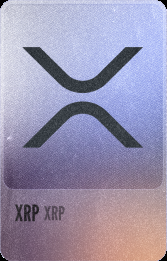
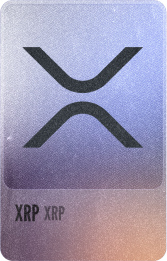
move jwt to coockie and remove black background

Changed region(s): [[0.9281, 0.0, 1.0, 1.0], [0.0, 0.9502, 0.0599, 1.0], [0.0, 0.0, 0.0599, 0.0307]]

diff --git a/api/routes/auth.py b/api/routes/auth.py
@@ -1,5 +1,4 @@
-from fastapi import APIRouter, HTTPException, Header, Depends
-from fastapi.security import HTTPBearer, HTTPAuthorizationCredentials
+from fastapi import APIRouter, HTTPException, Header, Depends, Response, Cookie
 from pydantic import BaseModel, validator
 from typing import Optional
 import logging
@@ -10,11 +9,11 @@ from services.web3_auth_service import web3_auth_service
 from services.user_card_grant_service import user_card_grant_service
 from services.user_pack_grant_service import user_pack_grant_service
 
+from config import Config
+
 logger = logging.getLogger(__name__)
 
 router = APIRouter(prefix="/auth")
-
-security = HTTPBearer()
 
 
 class NonceRequest(BaseModel):
@@ -62,32 +61,61 @@ class VerifyRequest(BaseModel):
 
 
 class AuthResponse(BaseModel):
-    access_token: str
     token_type: str = "bearer"
-    expires_in: int = 604800  # 7 дней
+    expires_in: int = 604800  # 7 дней в секундах
     user: dict
-    cards_granted: Optional[int] = None  # Количество выданных карточек
-    packs_granted: Optional[int] = None  # Количество выданных паков
+    cards_granted: Optional[int] = None
+    packs_granted: Optional[int] = None
+    
+    class Config:
+        json_schema_extra = {
+            "example": {
+                "token_type": "bearer",
+                "expires_in": 604800,
+                "user": {
+                    "id": 1,
+                    "wallet_address": "0x1234...",
+                    "nickname": "Player123",
+                    "referral_route": "Player1230001",
+                    "avatar_url": "https://...",
+                    "created_at": "2026-01-22T10:00:00"
+                },
+                "packs_granted": 3
+            }
+        }
 
+
+from fastapi import Cookie, HTTPException
+from typing import Optional
 
 def verify_jwt_dependency(
-    credentials: HTTPAuthorizationCredentials = Depends(security)
+    access_token: Optional[str] = Cookie(None)  # ← ЧИТАЕМ ИЗ COOKIE
 ):
-    """Verify JWT token from Authorization header"""
+    """Verify JWT token from HTTP-only cookie"""
+    if not access_token:
+        raise HTTPException(
+            status_code=401, 
+            detail="Not authenticated",
+            headers={"WWW-Authenticate": "Bearer"}
+        )
+    
     try:
-        token = credentials.credentials  # Получаем токен из Bearer
-        
-        payload = web3_auth_service.verify_jwt_token(token)
+        payload = web3_auth_service.verify_jwt_token(access_token)
         if not payload:
-            raise HTTPException(status_code=401, detail="Invalid or expired token")
-        
+            raise HTTPException(
+                status_code=401, 
+                detail="Invalid or expired token"
+            )
         return payload
         
     except HTTPException:
         raise
     except Exception as e:
         logger.error(f"Authentication failed: {e}")
-        raise HTTPException(status_code=401, detail="Authentication failed")
+        raise HTTPException(
+            status_code=401, 
+            detail="Authentication failed"
+        )
 
 
 @router.post("/nonce")
@@ -110,68 +138,67 @@ async def get_nonce(request: NonceRequest):
 @router.post("/verify", response_model=AuthResponse)
 async def verify_signature(
     request: VerifyRequest,
+    response: Response,  # ← ДОБАВИЛИ
     db: AsyncSession = Depends(get_async_db)
 ):
     """
     Verify wallet signature and authenticate user
-    Validates the signed message and returns JWT access token.
+    Validates the signed message and sets HTTP-only authentication cookie.
     """
     try:
         is_valid = await web3_auth_service.verify_signature(
             request.wallet_address, 
             request.signature
         )
-        
         if not is_valid:
             raise HTTPException(status_code=401, detail="Invalid signature")
-
+        
         # Проверяем, существует ли уже пользователь
         existing_user = await web3_auth_service.get_user_by_wallet(
             request.wallet_address, 
             db
         )
         is_new_user = existing_user is None
-
+        
         user = await web3_auth_service.create_or_get_user(
             wallet_address=request.wallet_address,
             nickname=request.nickname,
             avatar_url=request.avatar_url,
             db=db
         )
-
+        
         cards_granted_count = 0
         packs_granted_count = 0
-
-        # Выдаем паки новым пользователям (карты временно отключены)
+        
+        # Выдаем паки новым пользователям
         if is_new_user:
-            # 🚫 DISABLED: Не выдаем карточки при регистрации
-            # try:
-            #     granted_cards = await user_card_grant_service.grant_all_active_cards_to_user(
-            #         user_id=user.id,
-            #         source="reward"
-            #     )
-            #     cards_granted_count = len(granted_cards)
-            #     logger.info(f"Granted {cards_granted_count} starter cards to new user {user.id}")
-            # except Exception as card_error:
-            #     logger.error(f"Error granting starter cards to user {user.id}: {card_error}")
-            #     cards_granted_count = 0
-
-            # ✅ Выдаем паки
             try:
                 granted_packs = await user_pack_grant_service.grant_all_active_packs_to_user(
                     user_id=user.id,
-                    source="reward"  # Стартовые паки как награда
+                    source="reward"
                 )
                 packs_granted_count = len(granted_packs)
                 logger.info(f"Granted {packs_granted_count} starter packs to new user {user.id}")
             except Exception as pack_error:
                 logger.error(f"Error granting starter packs to user {user.id}: {pack_error}")
                 packs_granted_count = 0
-
+        
+        # Создаем JWT токен
         access_token = web3_auth_service.create_jwt_token(user)
-
+        
+        response.set_cookie(
+            key="access_token",
+            value=access_token,
+            httponly=True,                    # Защита от XSS
+            secure=Config.ENVIRONMENT == "production",  # HTTPS only в проде
+            samesite="lax",                   # Защита от CSRF
+            max_age=604800,                   # 7 дней в секундах
+            path="/",                         # Доступен для всех путей
+            domain=None                       # Автоматически определяется
+        )
+        
+        # Формируем ответ БЕЗ токена в body
         response_data = {
-            "access_token": access_token,
             "user": {
                 "id": user.id,
                 "wallet_address": user.wallet_address,
@@ -181,20 +208,25 @@ async def verify_signature(
                 "created_at": user.created_at.isoformat()
             }
         }
-
-        # Добавляем информацию о выданных карточках и паках только для новых пользователей
+        
+        # Добавляем информацию о выданных паках для новых пользователей
         if is_new_user:
             response_data["cards_granted"] = cards_granted_count
             response_data["packs_granted"] = packs_granted_count
-
+        
         return AuthResponse(**response_data)
-
+        
     except HTTPException:
         raise
     except Exception as e:
         logger.error(f"Error verifying signature: {e}")
         raise HTTPException(status_code=500, detail="Authentication failed")
 
+@router.post("/logout")
+async def logout(response: Response):
+    """Clear authentication cookie"""
+    response.delete_cookie(key="access_token", path="/")
+    return {"success": True, "message": "Logged out successfully"}
 
 @router.get("/me")
 async def get_current_user(current_user: dict = Depends(verify_jwt_dependency)):

diff --git a/config.py b/config.py
@@ -9,6 +9,11 @@ class Config:
     
     # ✅ API Server settings
     PORT = int(os.environ.get('PORT', 8000))
+
+    CORS_ORIGINS = os.environ.get('CORS_ORIGINS', 'http://localhost:3000')
+    @staticmethod
+    def get_cors_origins():
+        return [origin.strip() for origin in Config.CORS_ORIGINS.split(',') if origin.strip()]
     
     # Flask settings
     SECRET_KEY = os.environ.get('SECRET_KEY') or 'fantasy-crypto-game-secret-key-2025'

diff --git a/services/card_render_service.py b/services/card_render_service.py
@@ -231,7 +231,7 @@ class CardRenderService:
             img.paste(number_layer, number_pos, number_layer)
             
             # Save rendered image
-            img.convert("RGB").save(output_path, "PNG", quality=95)
+            img.save(output_path, "PNG", quality=95)
             logger.info(f"✅ Card rendered: {os.path.basename(output_path)}")
             
             return True

diff --git a/main.py b/main.py
@@ -147,10 +147,10 @@ app = FastAPI(
 # Setup CORS 
 app.add_middleware(
     CORSMiddleware,
-    allow_origins=["*"],  # В продакшене заменить на конкретные домены
+    allow_origins=Config.get_cors_origins(),
     allow_credentials=True,
     allow_methods=["*"],
-    allow_headers=["*"], 
+    allow_headers=["*"]
 )
 
 # Include routers
